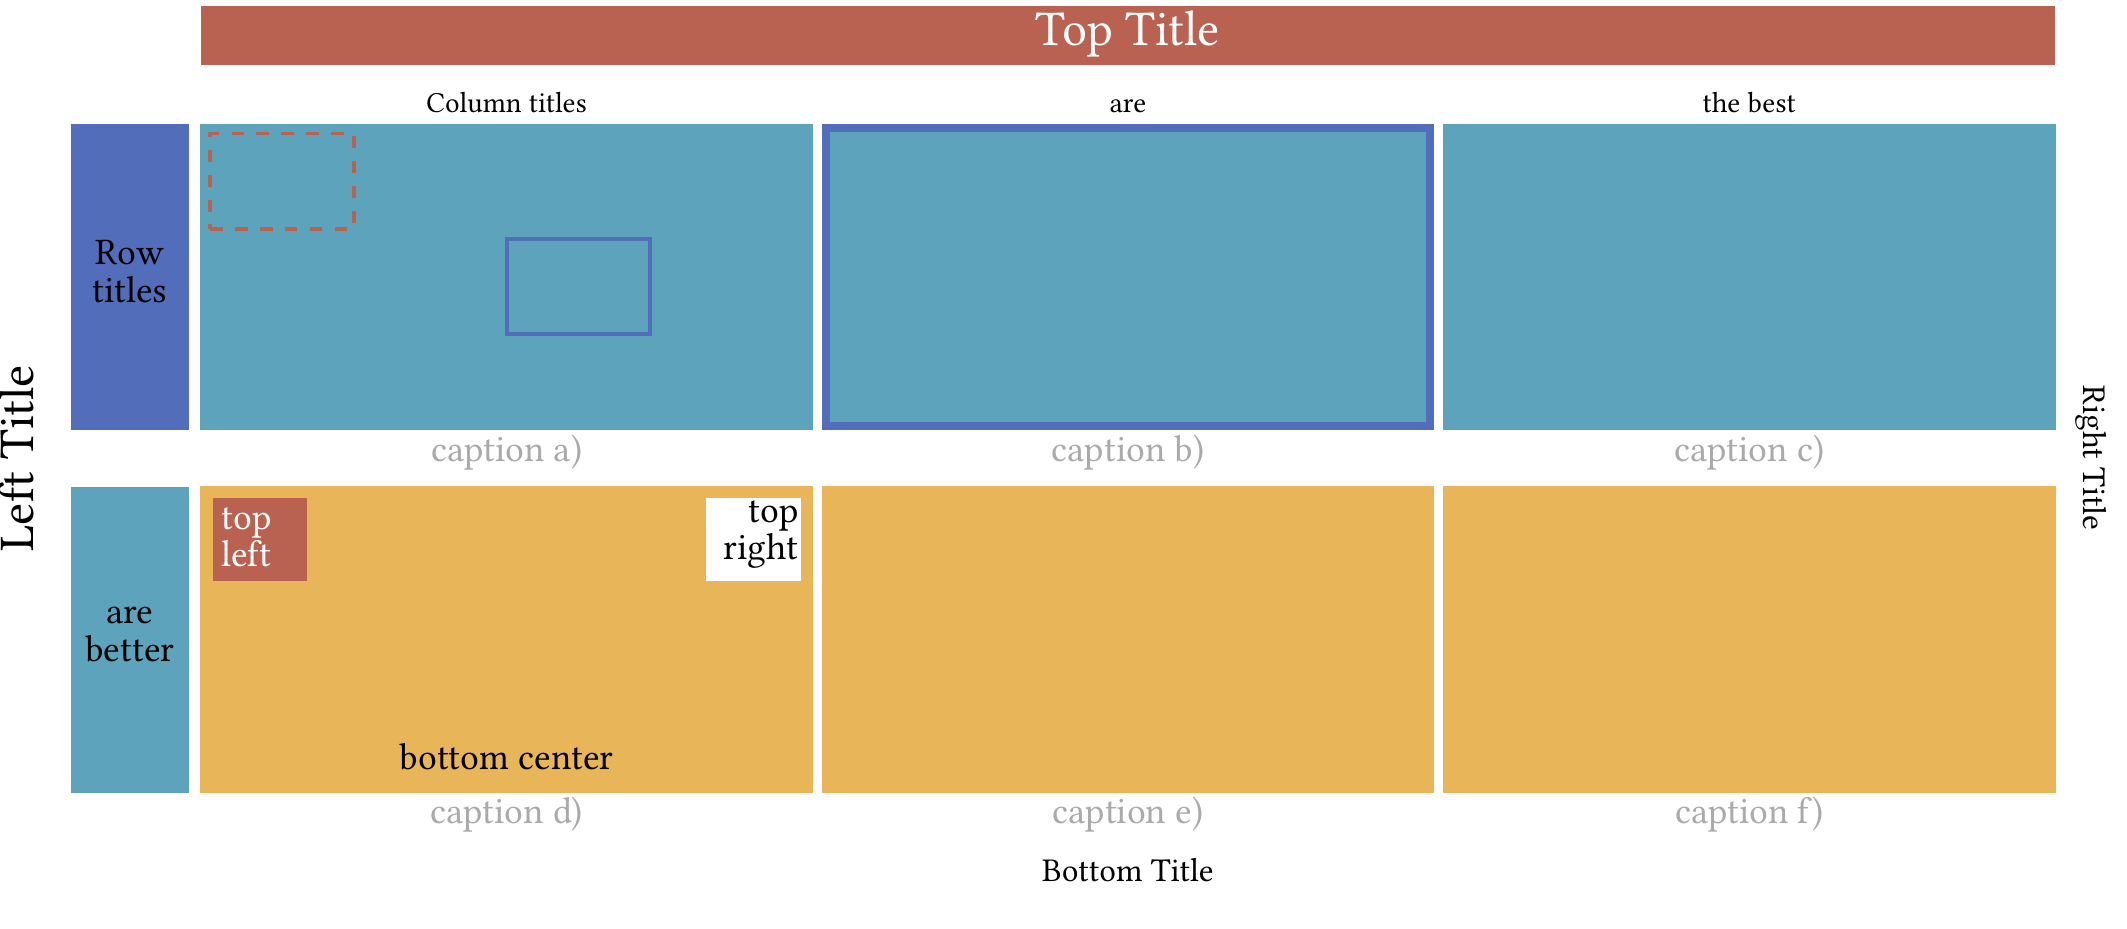
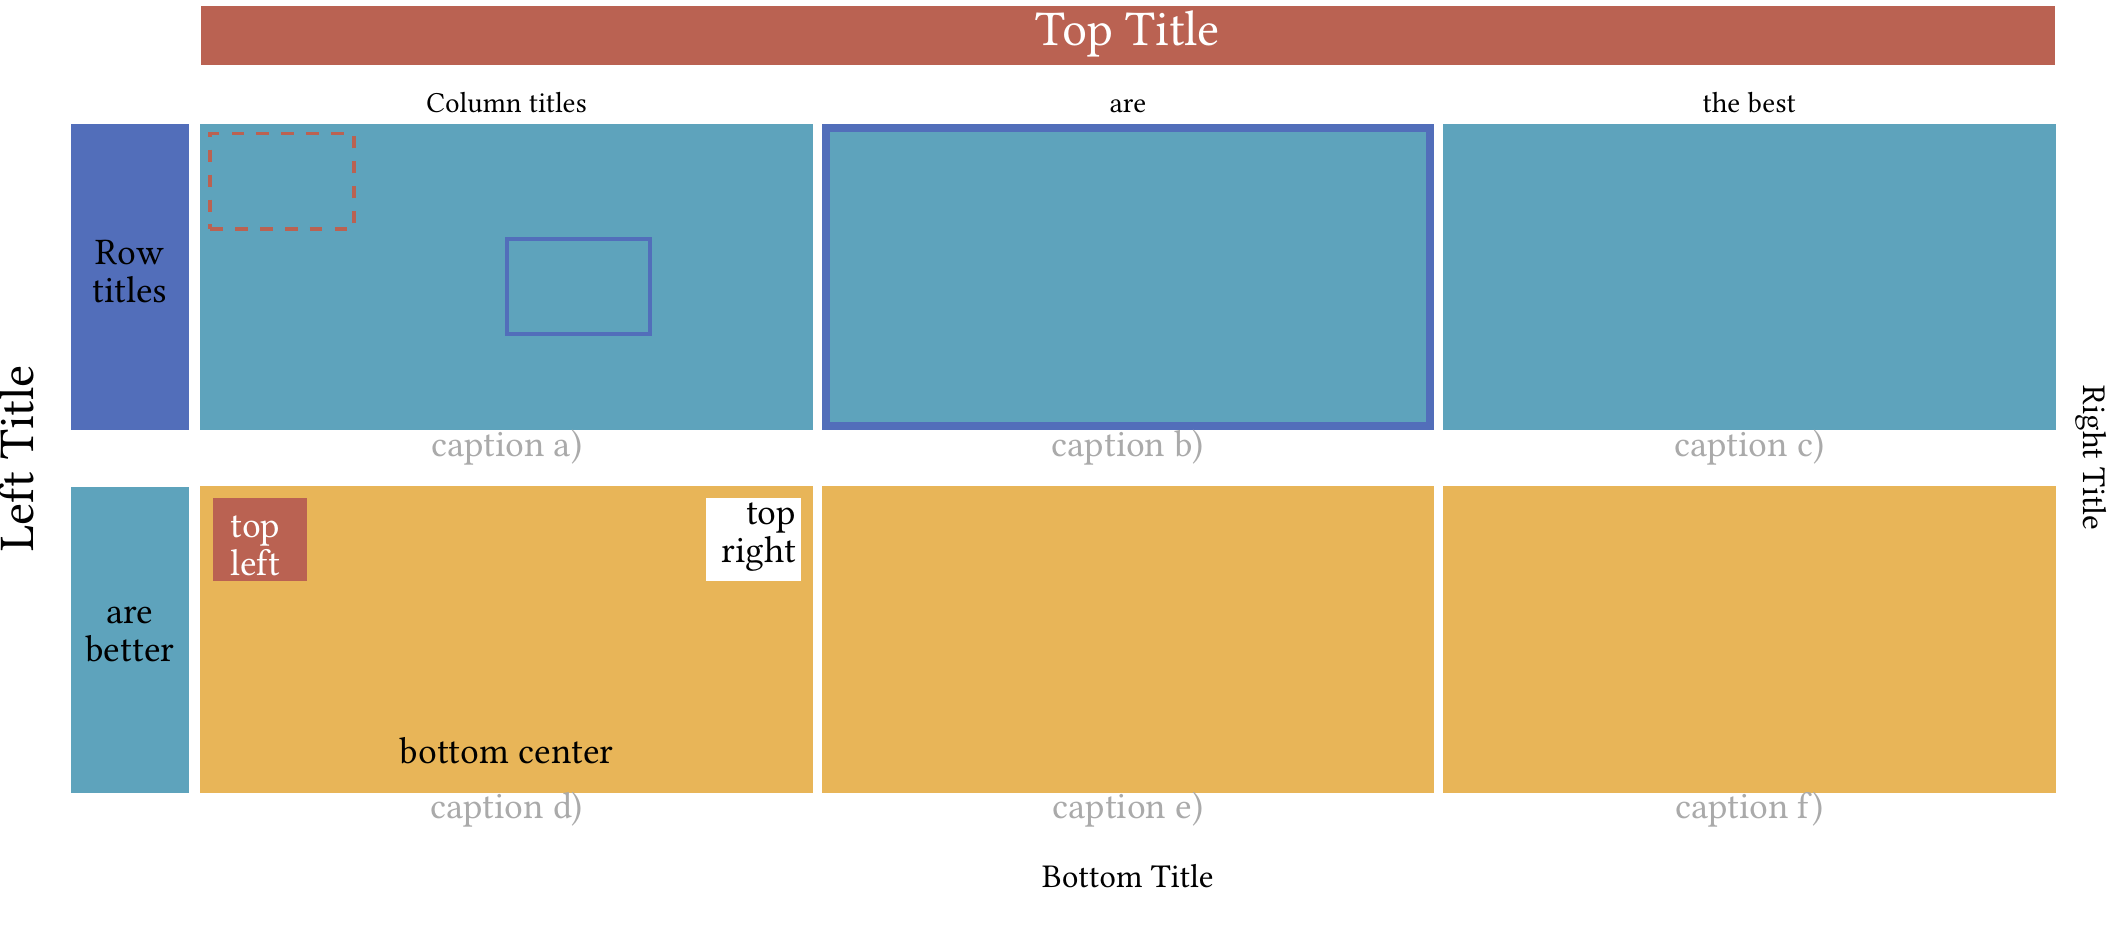
update examples

diff --git a/examples/single_module.py b/examples/single_module.py
@@ -1,4 +1,12 @@
 import numpy as np
+
+# ------------------------------------------
+# For development / testing only: add parent directory to python path so we can load the package without installing it
+# DO NOT use this if you have installed figuregen via pip
+import sys, os
+sys.path.insert(1, os.path.join(sys.path[0], '..'))
+# -------------------------------------------
+
 import figuregen
 import unittest
 
@@ -32,8 +40,7 @@ for row in range(n_rows):
         img = figuregen.PNG(images[row])
         grid.get_element(row,col).set_image(img)
 
-layout = grid.get_layout()
-layout.set_padding(top=0.5, bottom=1.5)
+grid.layout.set_padding(top=0.5, bottom=1.5)
 
 # marker
 grid.get_element(0,0).set_marker(pos=[32,12], size=[15,10], color=colors[4])
@@ -50,7 +57,7 @@ grid.get_element(0,2).set_caption('caption c)')
 grid.get_element(1,0).set_caption('caption d)')
 grid.get_element(1,1).set_caption('caption e)')
 grid.get_element(1,2).set_caption('caption f)')
-layout.set_caption(height_mm=4.0, fontsize=9, txt_color=[170,170,170])
+grid.layout.captions[figuregen.BOTTOM] = figuregen.TextFieldLayout(size=4.0, fontsize=9, text_color=(170,170,170))
 
 # labels (examples, each element can have in total 6 labels on each valid position)
 e4 = grid.get_element(1,0)
@@ -63,18 +70,20 @@ e4.set_label("top\\\\left", pos='top_left', width_mm=8., height_mm=7.0, offset_m
 
 # grid specific titles
 grid.set_title('top', 'Top Title')
-layout.set_title('top', 5., offset_mm=2.,fontsize=12, bg_color=colors[5], txt_color=[255,255,255])
+grid.layout.titles[figuregen.TOP] = figuregen.TextFieldLayout(5., offset=2.,fontsize=12,
+                                                              background_colors=colors[5], text_color=(255,255,255))
 
 grid.set_title('south', 'Bottom Title') #use defaults
 
 grid.set_title('right', 'Right Title') #use defaults
 
 grid.set_title('left', 'Left Title')
-layout.set_title('left', 4., offset_mm=2.,fontsize=12)
+grid.layout.titles[figuregen.LEFT] = figuregen.TextFieldLayout(4., offset=2., fontsize=12, rotation=90)
 
 # Row and column titles
 grid.set_row_titles('left', ['Row titles', 'are better'])
-layout.set_row_titles('left', 10., offset_mm=1., fontsize=9, txt_rotation=0, bg_color=[colors[4],colors[2]])
+grid.layout.row_titles[figuregen.LEFT] = figuregen.TextFieldLayout(10., offset=1., fontsize=9, rotation=0,
+                                                                   background_colors=[colors[4],colors[2]])
 
 grid.set_col_titles('north', ['Column titles', 'are', 'the best'])
 #layout.set_col_titles('north', 10., offset_mm=1., fontsize=9, bg_color=[200, 180, 220])

diff --git a/examples/plotgrid.py b/examples/plotgrid.py
@@ -92,7 +92,7 @@ def make_row(method_name, title, mark_strata=False, problem_range=None, show_tit
 
     # Add titles
     grid.set_row_titles("left", [title])
-    grid.get_layout().set_row_titles("left", 3, offset_mm=0.5, fontsize=8)
+    grid.layout.row_titles[figuregen.LEFT] = figuregen.TextFieldLayout(size=3, offset=0.5, fontsize=8, rotation=90)
     if show_titles:
         grid.set_col_titles("bottom", [
             "a) Integrand and densities",
@@ -102,13 +102,13 @@ def make_row(method_name, title, mark_strata=False, problem_range=None, show_tit
             "e) Var-aware",
             "f) Optimal weights"
         ])
-        grid.get_layout().set_col_titles("bottom", 6, offset_mm=0.5, fontsize=8)
+        grid.layout.column_titles[figuregen.BOTTOM] = figuregen.TextFieldLayout(size=6, offset=0.5, fontsize=8)
 
     grid.set_col_titles("top", variance_captions)
-    grid.get_layout().set_col_titles("top", 3, offset_mm=0.5, fontsize=8)
+    grid.layout.column_titles[figuregen.TOP] = figuregen.TextFieldLayout(size=3, offset=0.5, fontsize=8)
 
     # Add space between the rows (needs to be removed for the last one)
-    grid.get_layout().set_padding(bottom=2)
+    grid.layout.set_padding(bottom=2)
 
     return [grid]
 
@@ -119,7 +119,7 @@ rows = [
 ]
 
 # Remove bottom padding from the last row
-rows[-1][0].get_layout().set_padding(bottom=0)
+rows[-1][0].layout.padding[figuregen.BOTTOM] = 0
 
 if __name__ == "__main__":
     import time

diff --git a/examples/multi_module.py b/examples/multi_module.py
@@ -14,7 +14,7 @@ images = [
 
 # ---- Grid Module ----
 grid0 = figuregen.Grid(1, 1)
-grid0.get_layout().set_padding(right=0.5)
+grid0.layout.set_padding(right=0.5)
 e0 = grid0.get_element(0,0).set_image(images[1])
 e0.set_frame(0.3, [0,0,0])
 e0.set_marker(pos=[2,12], size=[10,10], color=[155, 155, 155], linewidth_pt=0.6)
@@ -22,7 +22,7 @@ e0.set_marker(pos=[15,1], size=[10,15], color=[186, 98, 82], linewidth_pt=0.6)
 
 # ---- Grid Module ----
 grid1 = figuregen.Grid(2, 2)
-layout1 = grid1.get_layout()
+layout1 = grid1.layout
 layout1.set_padding(top=0.2, right=0.5)
 
 # fill grid with image data
@@ -33,10 +33,11 @@ for row in range(2):
         e.set_frame(0.3, [0,0,0])
 
 grid1.set_col_titles('south', ['Blue', 'Yellow'])
-layout1.set_col_titles('south', field_size_mm=4., offset_mm=0.2, bg_color=[[200, 200, 255], [255, 255, 200]])
+layout1.column_titles[figuregen.BOTTOM] = figuregen.TextFieldLayout(size=4., offset=0.2, background_colors=[[200, 200, 255], [255, 255, 200]])
 
 grid1.set_row_titles('east', ['Awesome 1', 'Awesome 2'])
-layout1.set_row_titles('east', field_size_mm=3. ,bg_color=[186, 98, 82], txt_color=[255,255,255])
+layout1.row_titles[figuregen.RIGHT] = figuregen.TextFieldLayout(3., background_colors=(186, 98, 82),
+                                                                text_color=(255,255,255), rotation=-90)
 
 grid1.set_title('north', 'Top Title')
 

diff --git a/examples/pool_with_template.py b/examples/pool_with_template.py
@@ -1,4 +1,12 @@
 import simpleimageio as sio
+
+# ------------------------------------------
+# For development / testing only: add parent directory to python path so we can load the package without installing it
+# DO NOT use this if you have installed figuregen via pip
+import sys, os
+sys.path.insert(1, os.path.join(sys.path[0], '..'))
+# -------------------------------------------
+
 import figuregen
 from figuregen.util.templates import CropComparison
 from figuregen.util.image import Cropbox

diff --git a/examples/split_comparison.py b/examples/split_comparison.py
@@ -43,9 +43,9 @@ for row in range(n_rows):
 top_grid.set_col_titles('top', ['Horizontal Split', 'Vertical Split', 'C)', 'D)'])
 
 # LAYOUT: Specify paddings (unit: mm)
-top_lay = top_grid.get_layout()
+top_lay = top_grid.layout
 top_lay.set_padding(column=1.0, right=1.5)
-top_lay.set_col_titles('top', field_size_mm=5.0)
+top_lay.column_titles[figuregen.TOP].size = 5.0
 
 if __name__ == "__main__":
     width_cm = 15
